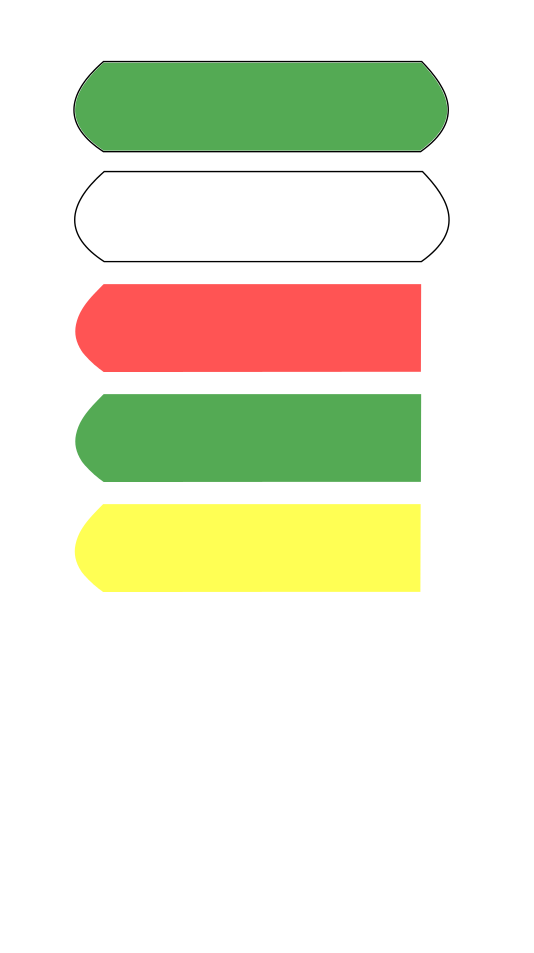
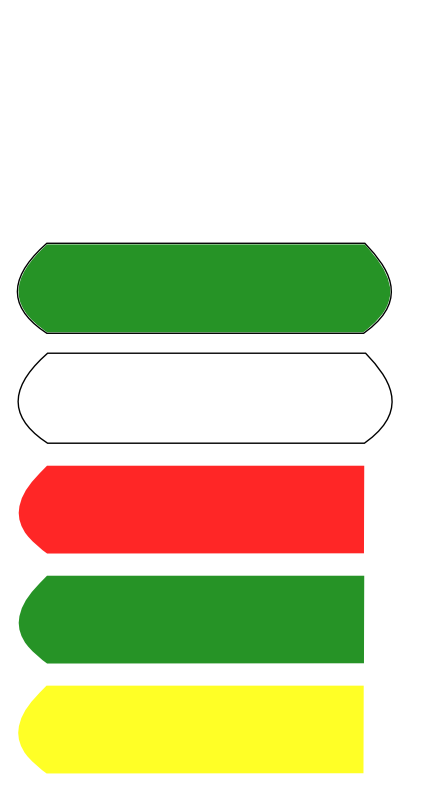
updated hit_pts_meter so it fills continuously and changes colors as player gets hurt

diff --git a/src/Hud.cpp b/src/Hud.cpp
@@ -13,12 +13,18 @@ SDL_Texture* Hud::Hud_Load_Hit_Pts_Texture(const char* File, SDL_Renderer* rende
     strcat (message,File);
     Logger::log(message);
 
-    // hit_pts_src_rect.x = 72; hit_pts_src_rect.y = 61;
-    // hit_pts_src_rect.w = 377; hit_pts_src_rect.h = 92;
-    hit_pts_fill_rect.x = 73; hit_pts_fill_rect.y = 61;
+    //each color change for bar is 110 down from last
+    hit_pts_outline_rect.x = 17; hit_pts_outline_rect.y = 353;
+    hit_pts_outline_rect.w = 377; hit_pts_outline_rect.h = 92;
+
+    hit_pts_fill_rect.x = 17; hit_pts_fill_rect.y = 243;
     hit_pts_fill_rect.w = 377; hit_pts_fill_rect.h = 92;
+
+    hit_pts_meter_width = 200;
+    double hit_pts_meter_height = .244*hit_pts_meter_width;
     hit_pts_dst_rect.x = 25; hit_pts_dst_rect.y = 25;
-    hit_pts_dst_rect.w = 377; hit_pts_dst_rect.h = 92;
+    hit_pts_dst_rect.w = hit_pts_meter_width;
+    hit_pts_dst_rect.h = hit_pts_meter_height;
 
     player_starting_hit_pts = player_hit_pts;
 
@@ -38,22 +44,31 @@ void Hud::OnRender(SDL_Renderer* renderer, Camera* camera,
                             player_x + 3 * targetx / mag + 10 * targetx,
                             player_y + 3 * targety / mag + 10 * targety);
     }
+    //hit_pts_meter_stuff
     if (fabs(player_hit_pts - player_starting_hit_pts) < .00001) {
         SDL_RenderCopy(renderer, hit_pts_texture, &hit_pts_fill_rect, &hit_pts_dst_rect);
     }
     else {
         //each color change for bar is 110 down from last
-        hit_pts_fill_rect.y = 281;
-        //empty meter is at width = 11 and full width = 377
+        SDL_RenderCopy(renderer, hit_pts_texture, &hit_pts_outline_rect, &hit_pts_dst_rect);
+        if (player_hit_pts/player_starting_hit_pts < .35) {
+            hit_pts_fill_rect.y = 464.95;
+        }
+        else if (player_hit_pts/player_starting_hit_pts < .6) {
+            hit_pts_fill_rect.y = 684.9;
+        }
+        else {
+            hit_pts_fill_rect.y = 574.95;
+        }
+        //empty meter is at width 377*.97 and full width = 377
         double fill_width;
-        fill_width = (377.0-11.0)*player_hit_pts/player_starting_hit_pts;
+        double fill_dst_width;
+        fill_width = .97*(377)*player_hit_pts/player_starting_hit_pts;
+        fill_dst_width = .97*(hit_pts_meter_width)*player_hit_pts/player_starting_hit_pts;
         hit_pts_fill_rect.w = fill_width;
-        hit_pts_dst_rect.w = fill_width;
+        hit_pts_dst_rect.w = fill_dst_width;
+
         SDL_RenderCopy(renderer, hit_pts_texture, &hit_pts_fill_rect, &hit_pts_dst_rect);
+        hit_pts_dst_rect.w = hit_pts_meter_width;
     }
-        // hit_pts_src_rect.y = 171;
-    // hit_pts_src_rect.x = 72; hit_pts_src_rect.y = 61;
-    // hit_pts_src_rect.w = 377; hit_pts_src_rect.h = 92;
-
-
 }

diff --git a/src/Application_OnInit.cpp b/src/Application_OnInit.cpp
@@ -73,13 +73,13 @@ bool Application::OnInit() {
     Entity::Create(renderer, Entity::BIG_MAN, 21, 28);
     Entity::Create(renderer, Entity::BIG_MAN, 21, 32);
     Entity::Create(renderer, Entity::BIG_MAN, 21, 12);
-    // Entity::Create(renderer, Entity::LITTLE_MAN, 21, 27);
-    // Entity::Create(renderer, Entity::LITTLE_MAN, 25, 27);
-    // Entity::Create(renderer, Entity::LITTLE_MAN, 28, 27);
-    // Entity::Create(renderer, Entity::LITTLE_MAN, 16, 25);
-    // Entity::Create(renderer, Entity::LITTLE_MAN, 11, 25);
-    // Entity::Create(renderer, Entity::BIG_MAN, 7, 25);
-    // Entity::Create(renderer, Entity::LITTLE_MAN, 16, 10);
+    Entity::Create(renderer, Entity::LITTLE_MAN, 21, 27);
+    Entity::Create(renderer, Entity::LITTLE_MAN, 25, 27);
+    Entity::Create(renderer, Entity::LITTLE_MAN, 28, 27);
+    Entity::Create(renderer, Entity::LITTLE_MAN, 16, 25);
+    Entity::Create(renderer, Entity::LITTLE_MAN, 11, 25);
+    Entity::Create(renderer, Entity::BIG_MAN, 7, 25);
+    Entity::Create(renderer, Entity::LITTLE_MAN, 16, 10);
     // Entity::Create(renderer, Entity::LITTLE_MAN, 11, 10);
     // Entity::Create(renderer, Entity::LITTLE_MAN, 7, 10);
 

diff --git a/src/Hud.h b/src/Hud.h
@@ -11,10 +11,11 @@ class Hud {
     public:
 
     SDL_Texture* hit_pts_texture;
-    SDL_Rect hit_pts_src_rect;
+    SDL_Rect hit_pts_outline_rect;
     SDL_Rect hit_pts_fill_rect;
     SDL_Rect hit_pts_dst_rect;
     double player_starting_hit_pts;
+    double hit_pts_meter_width;
     SDL_Texture* Hud_Load_Hit_Pts_Texture(const char* File, SDL_Renderer* renderer,
                                           double player_hit_pts);
 
